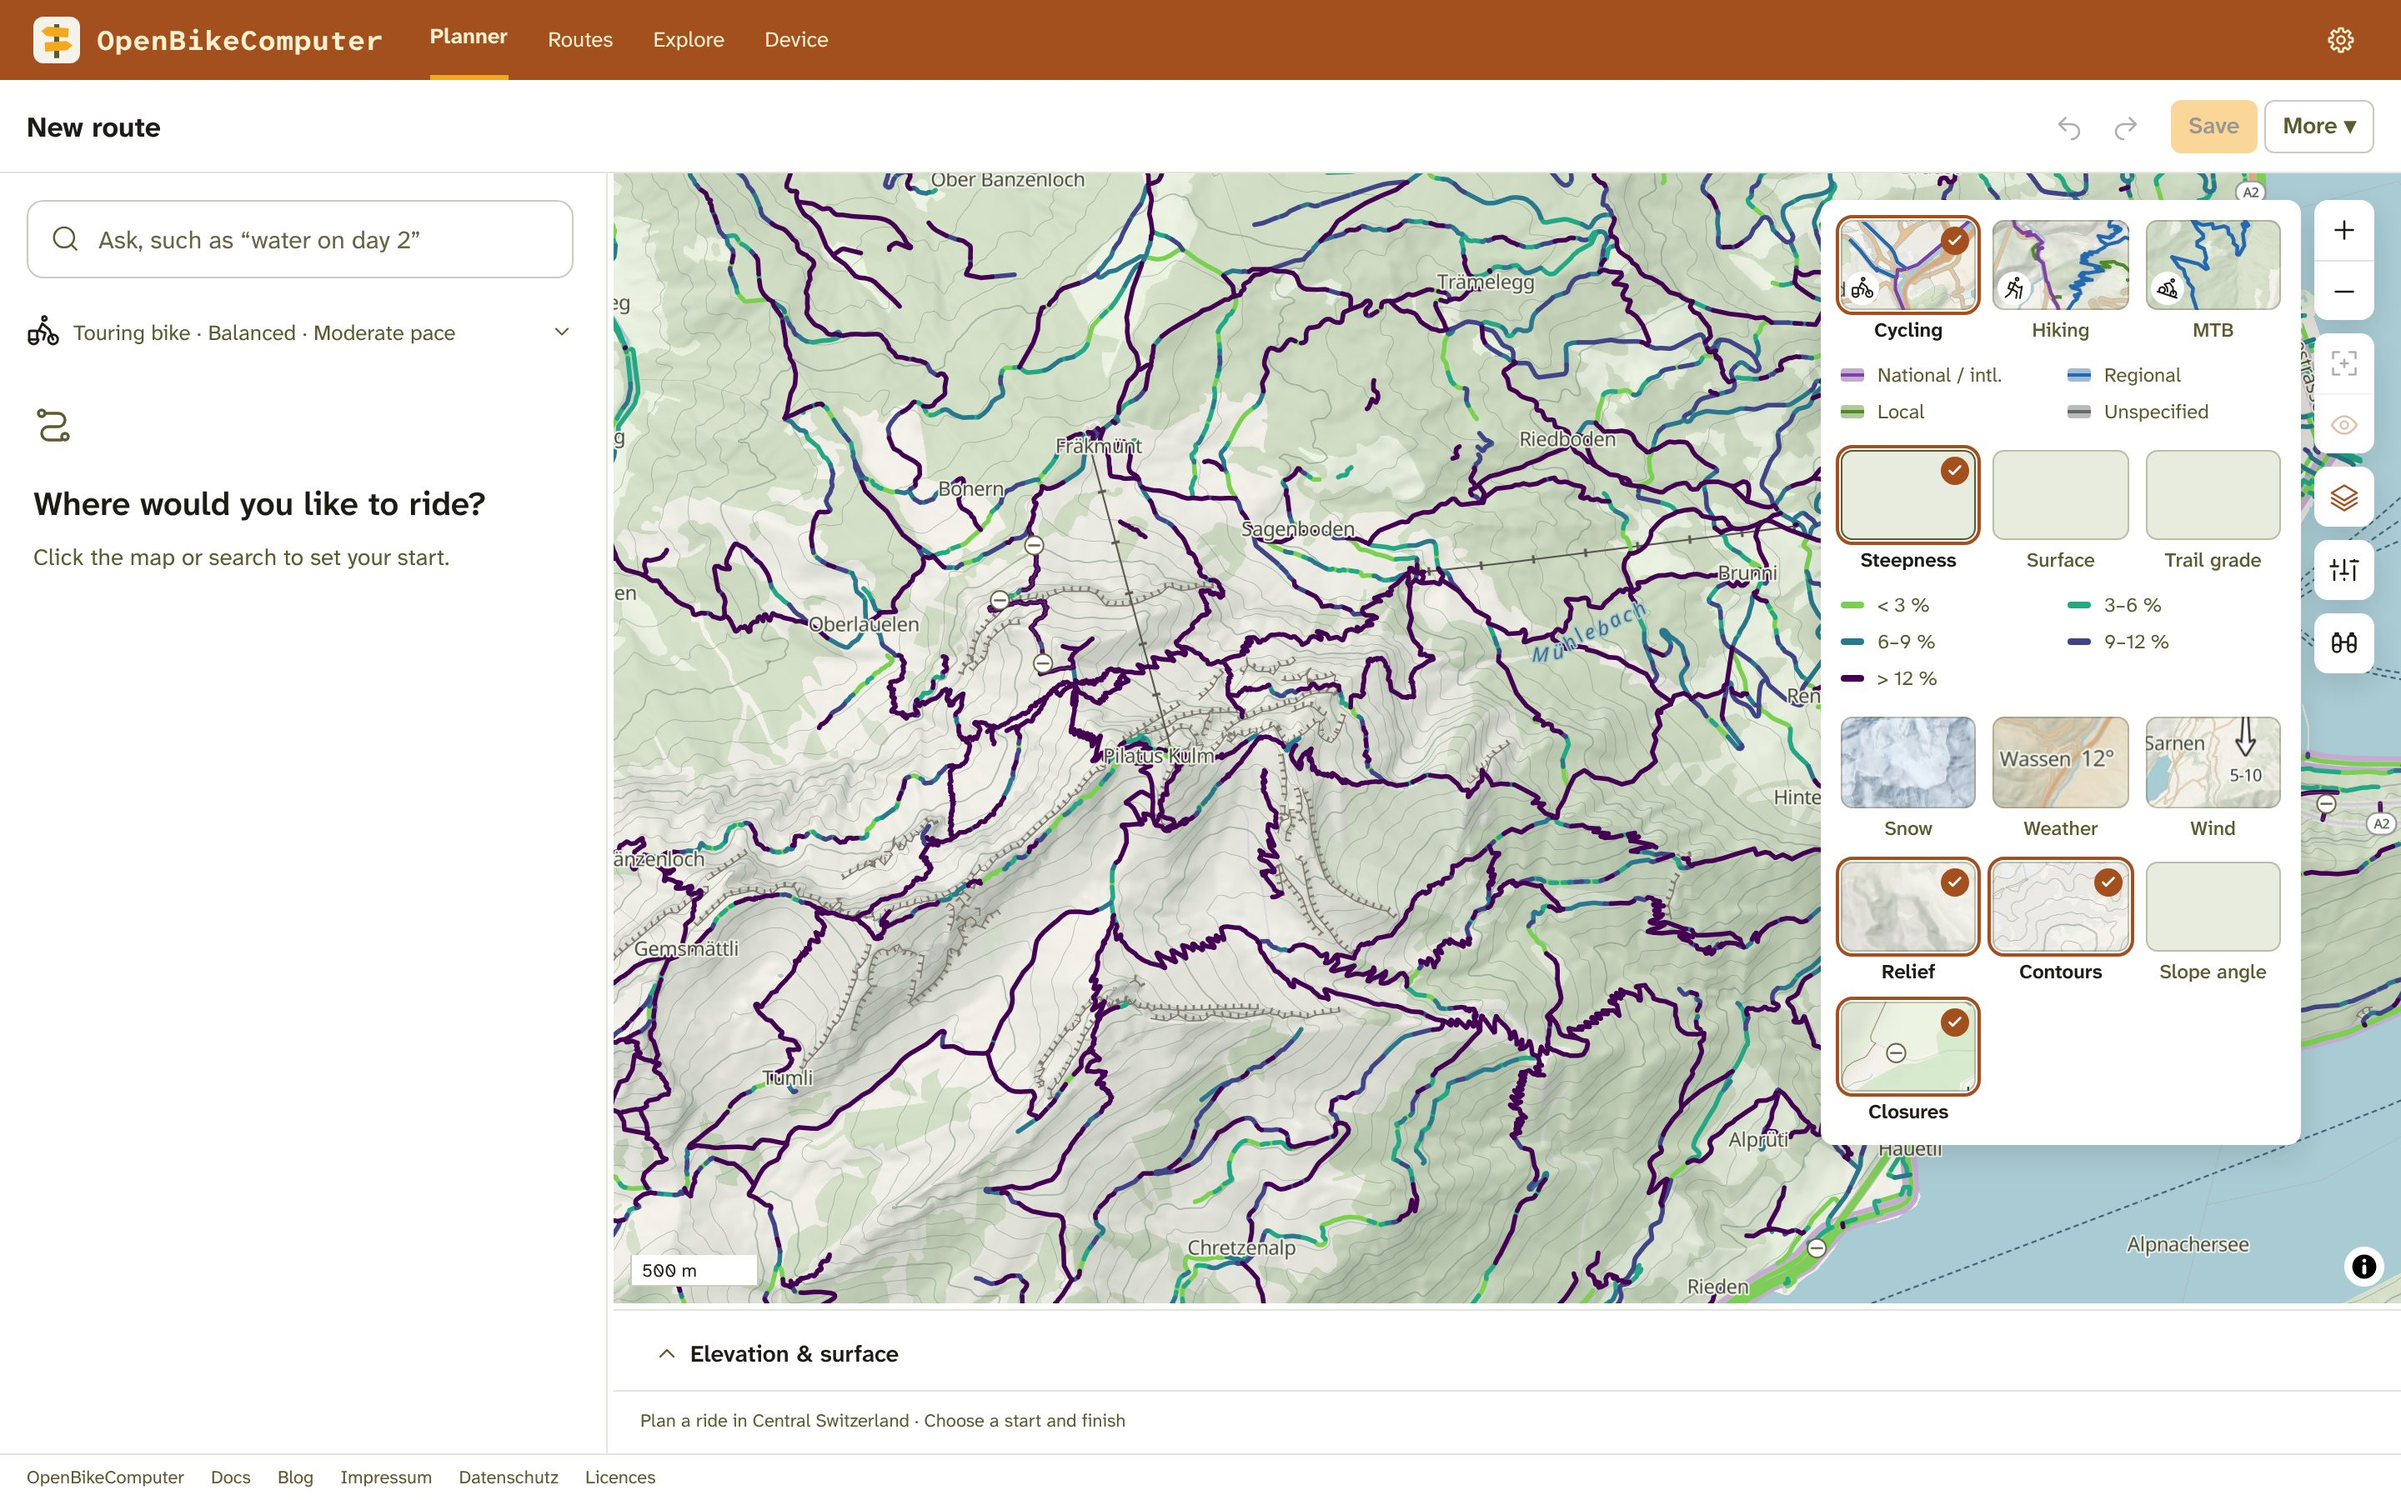
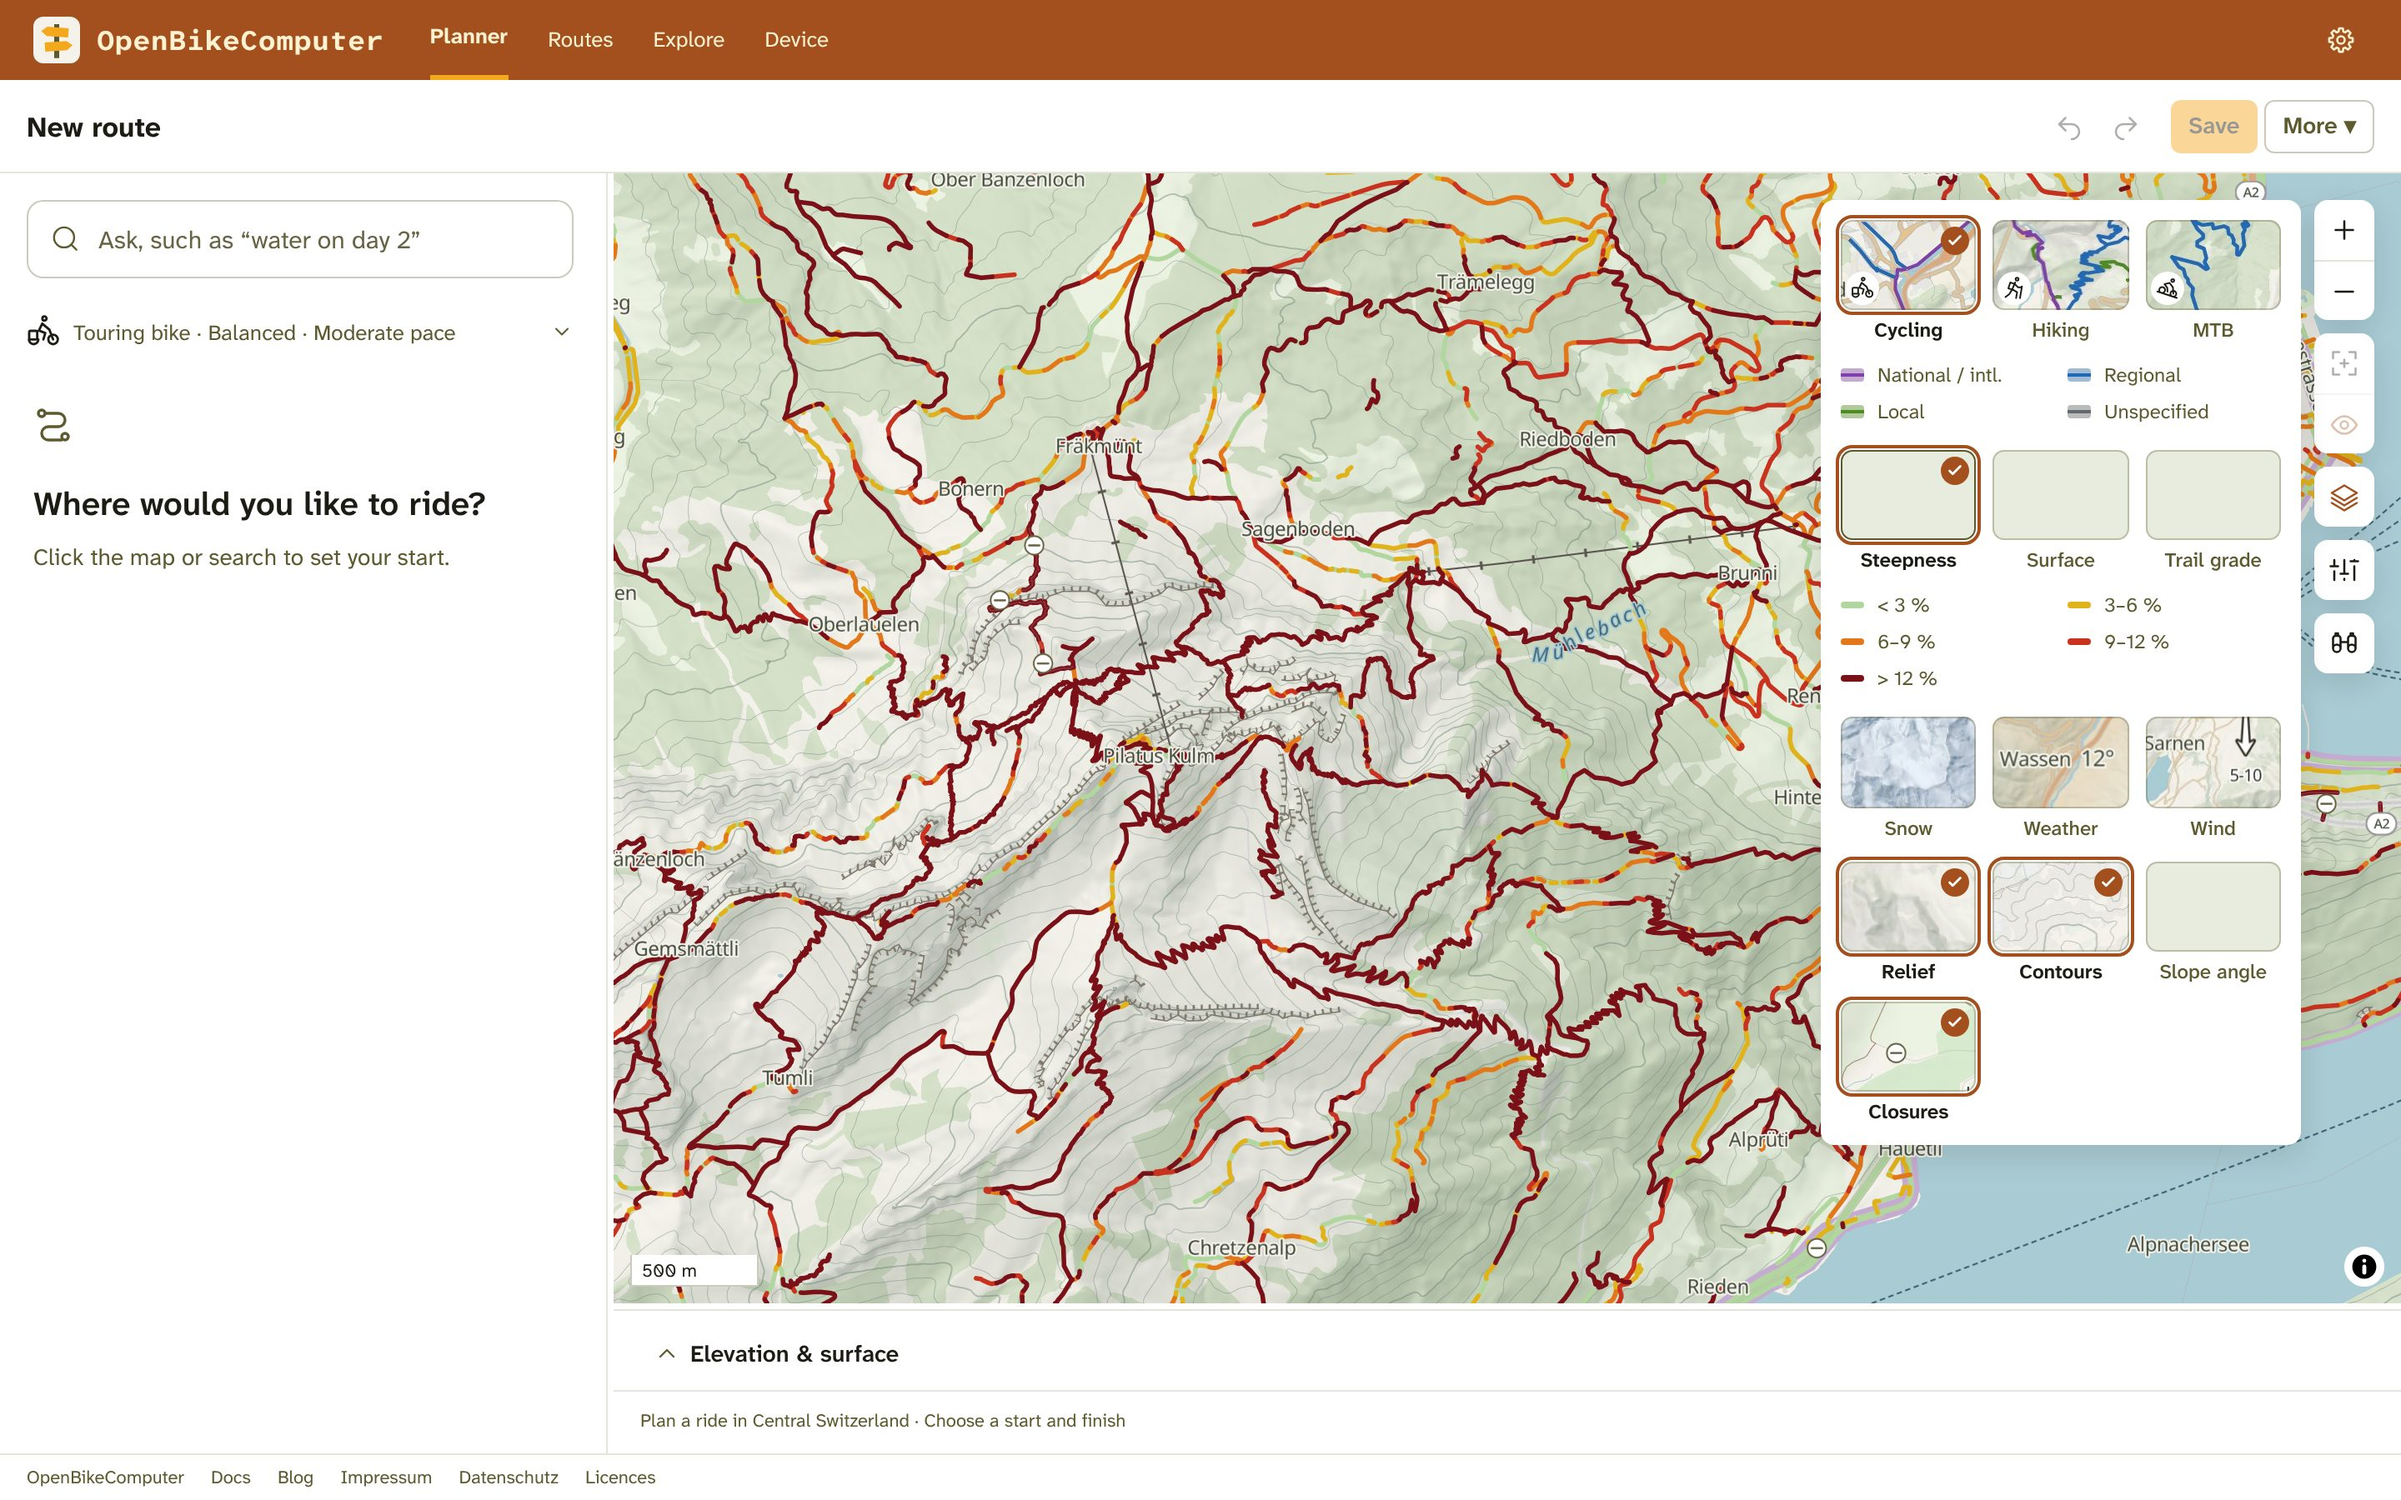
prototype: climb-profile colours for the steepness layer
Claude-Session: https://claude.ai/code/session_01Wqws1c9uQRBGGaaPm62HMf

diff --git a/builder/web/src/lib/planner/road-layers-prototype.ts b/builder/web/src/lib/planner/road-layers-prototype.ts
@@ -9,12 +9,13 @@ export const roadLayers: { id: RoadLayer; label: string }[] = [
 type Theme = 'light' | 'dark';
 type Class = { label: string; light: string; dark: string; faint?: boolean };
 
+// Climb-profile colours; the lightness falls from flat to steep in both themes.
 const steepness: Class[] = [
-    { label: '< 3 %', light: '#7ad151', dark: '#2c7a8e' },
-    { label: '3–6 %', light: '#22a884', dark: '#29af7f' },
-    { label: '6–9 %', light: '#2a788e', dark: '#7ad151' },
-    { label: '9–12 %', light: '#414487', dark: '#d2e21b' },
-    { label: '> 12 %', light: '#440154', dark: '#fff7a8' },
+    { label: '< 3 %', light: '#b2d6a0', dark: '#a2d192' },
+    { label: '3–6 %', light: '#e0b21c', dark: '#d4a626' },
+    { label: '6–9 %', light: '#e2781a', dark: '#de7426' },
+    { label: '9–12 %', light: '#c8321f', dark: '#d8402e' },
+    { label: '> 12 %', light: '#7a1018', dark: '#b02a32' },
 ];
 // The router's surface classes, in order of `Surface` in planner/router/src/model.rs.
 const surface: Class[] = [
